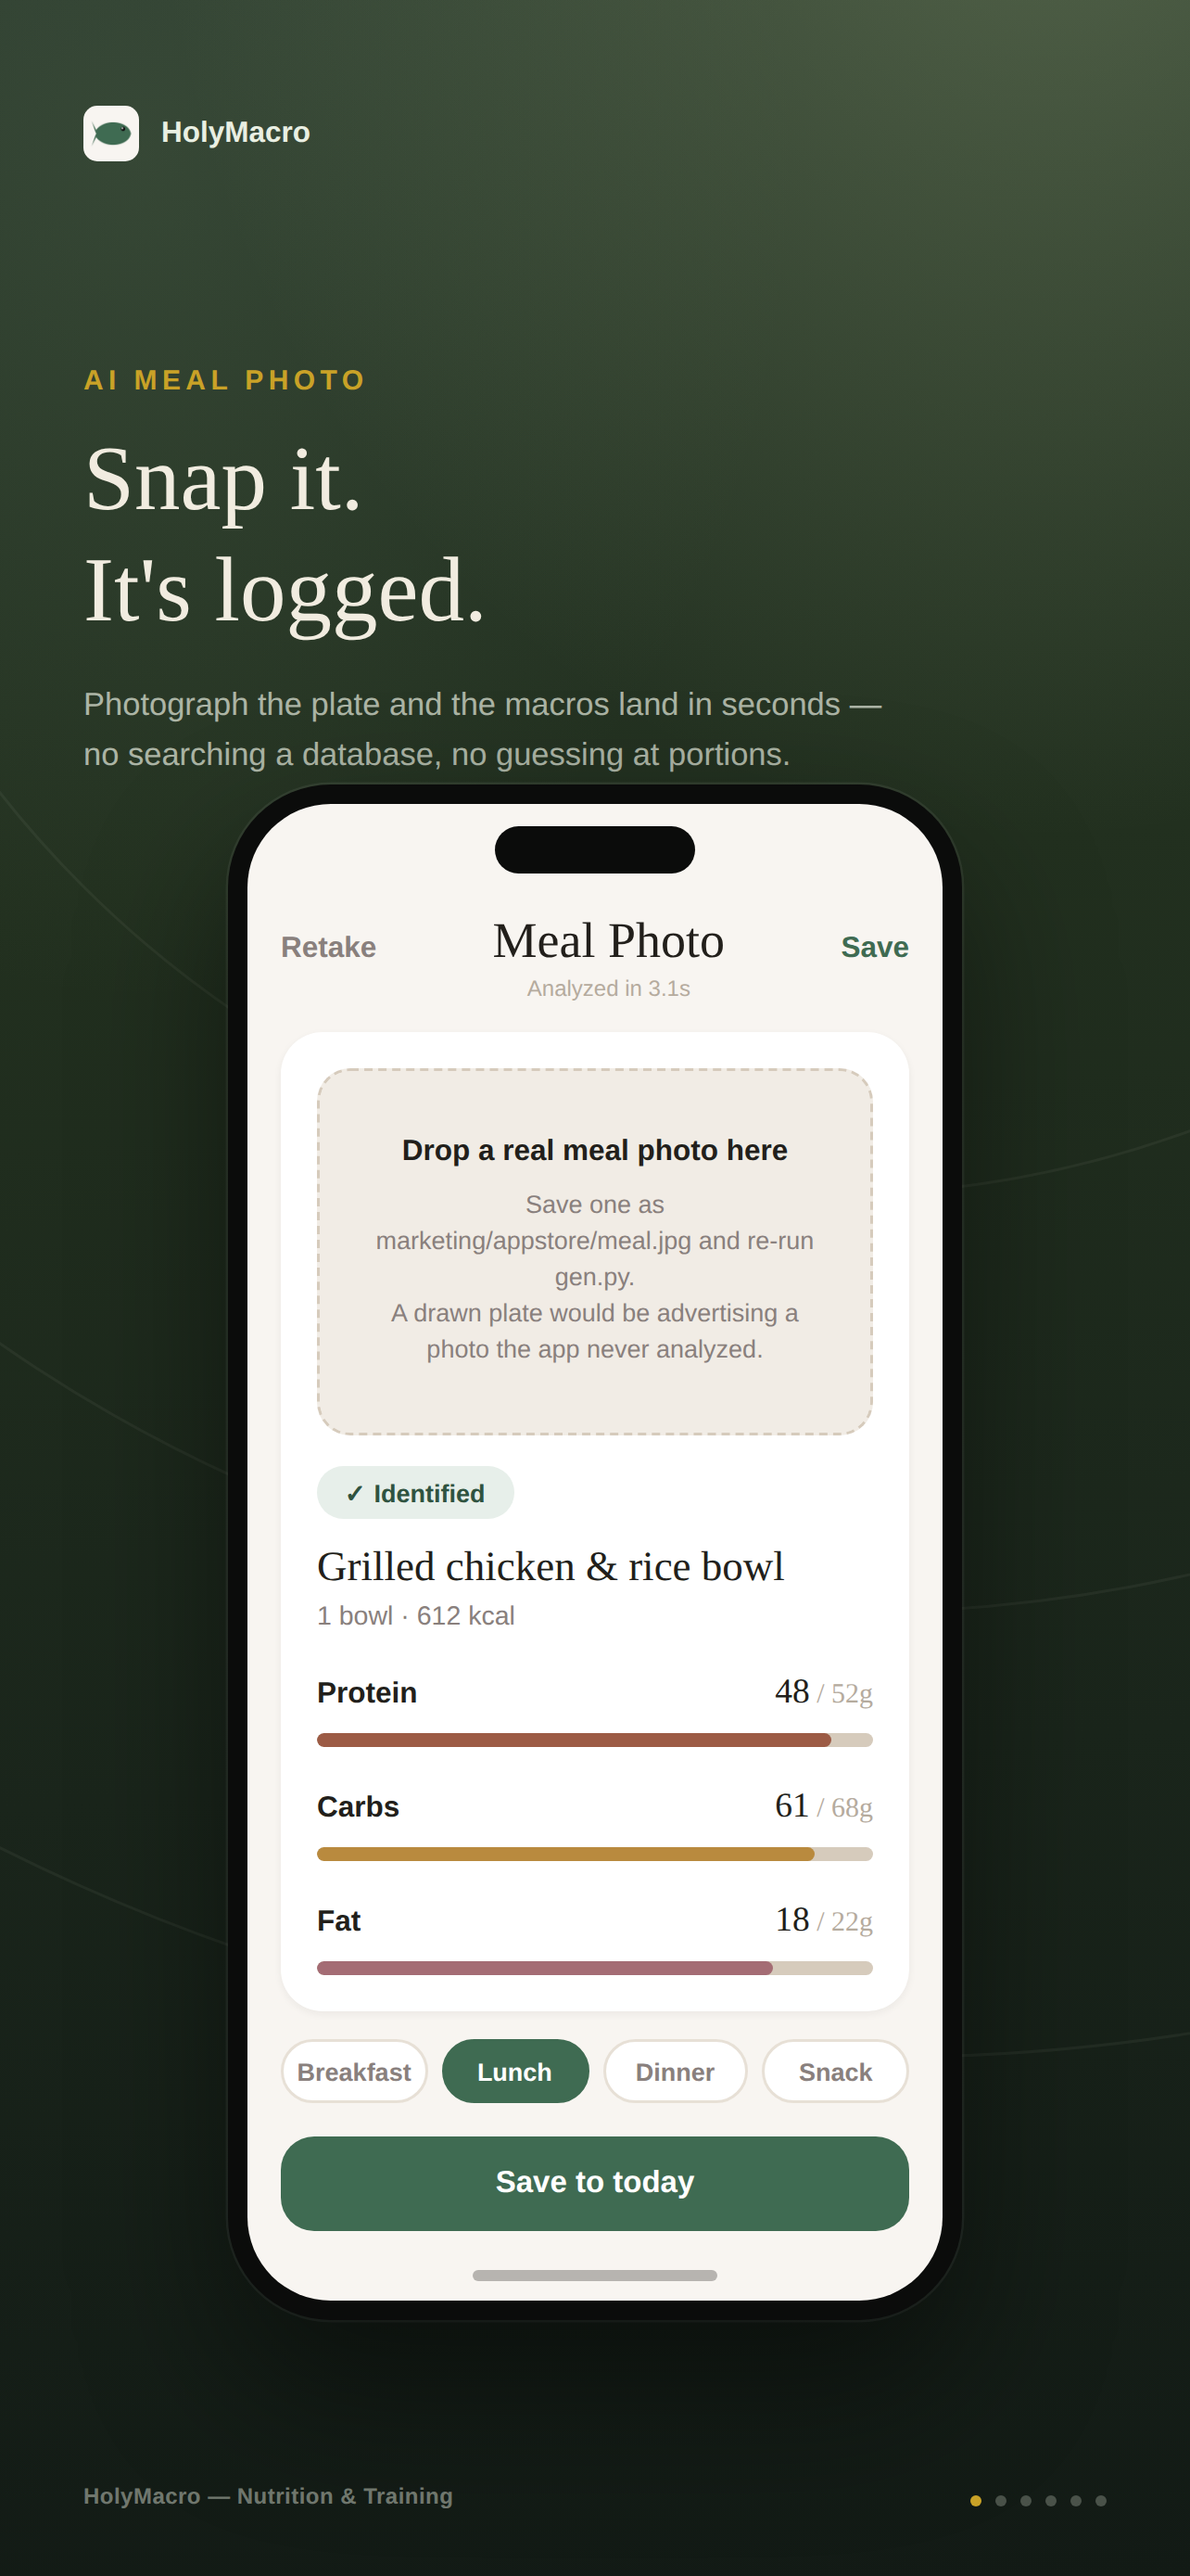
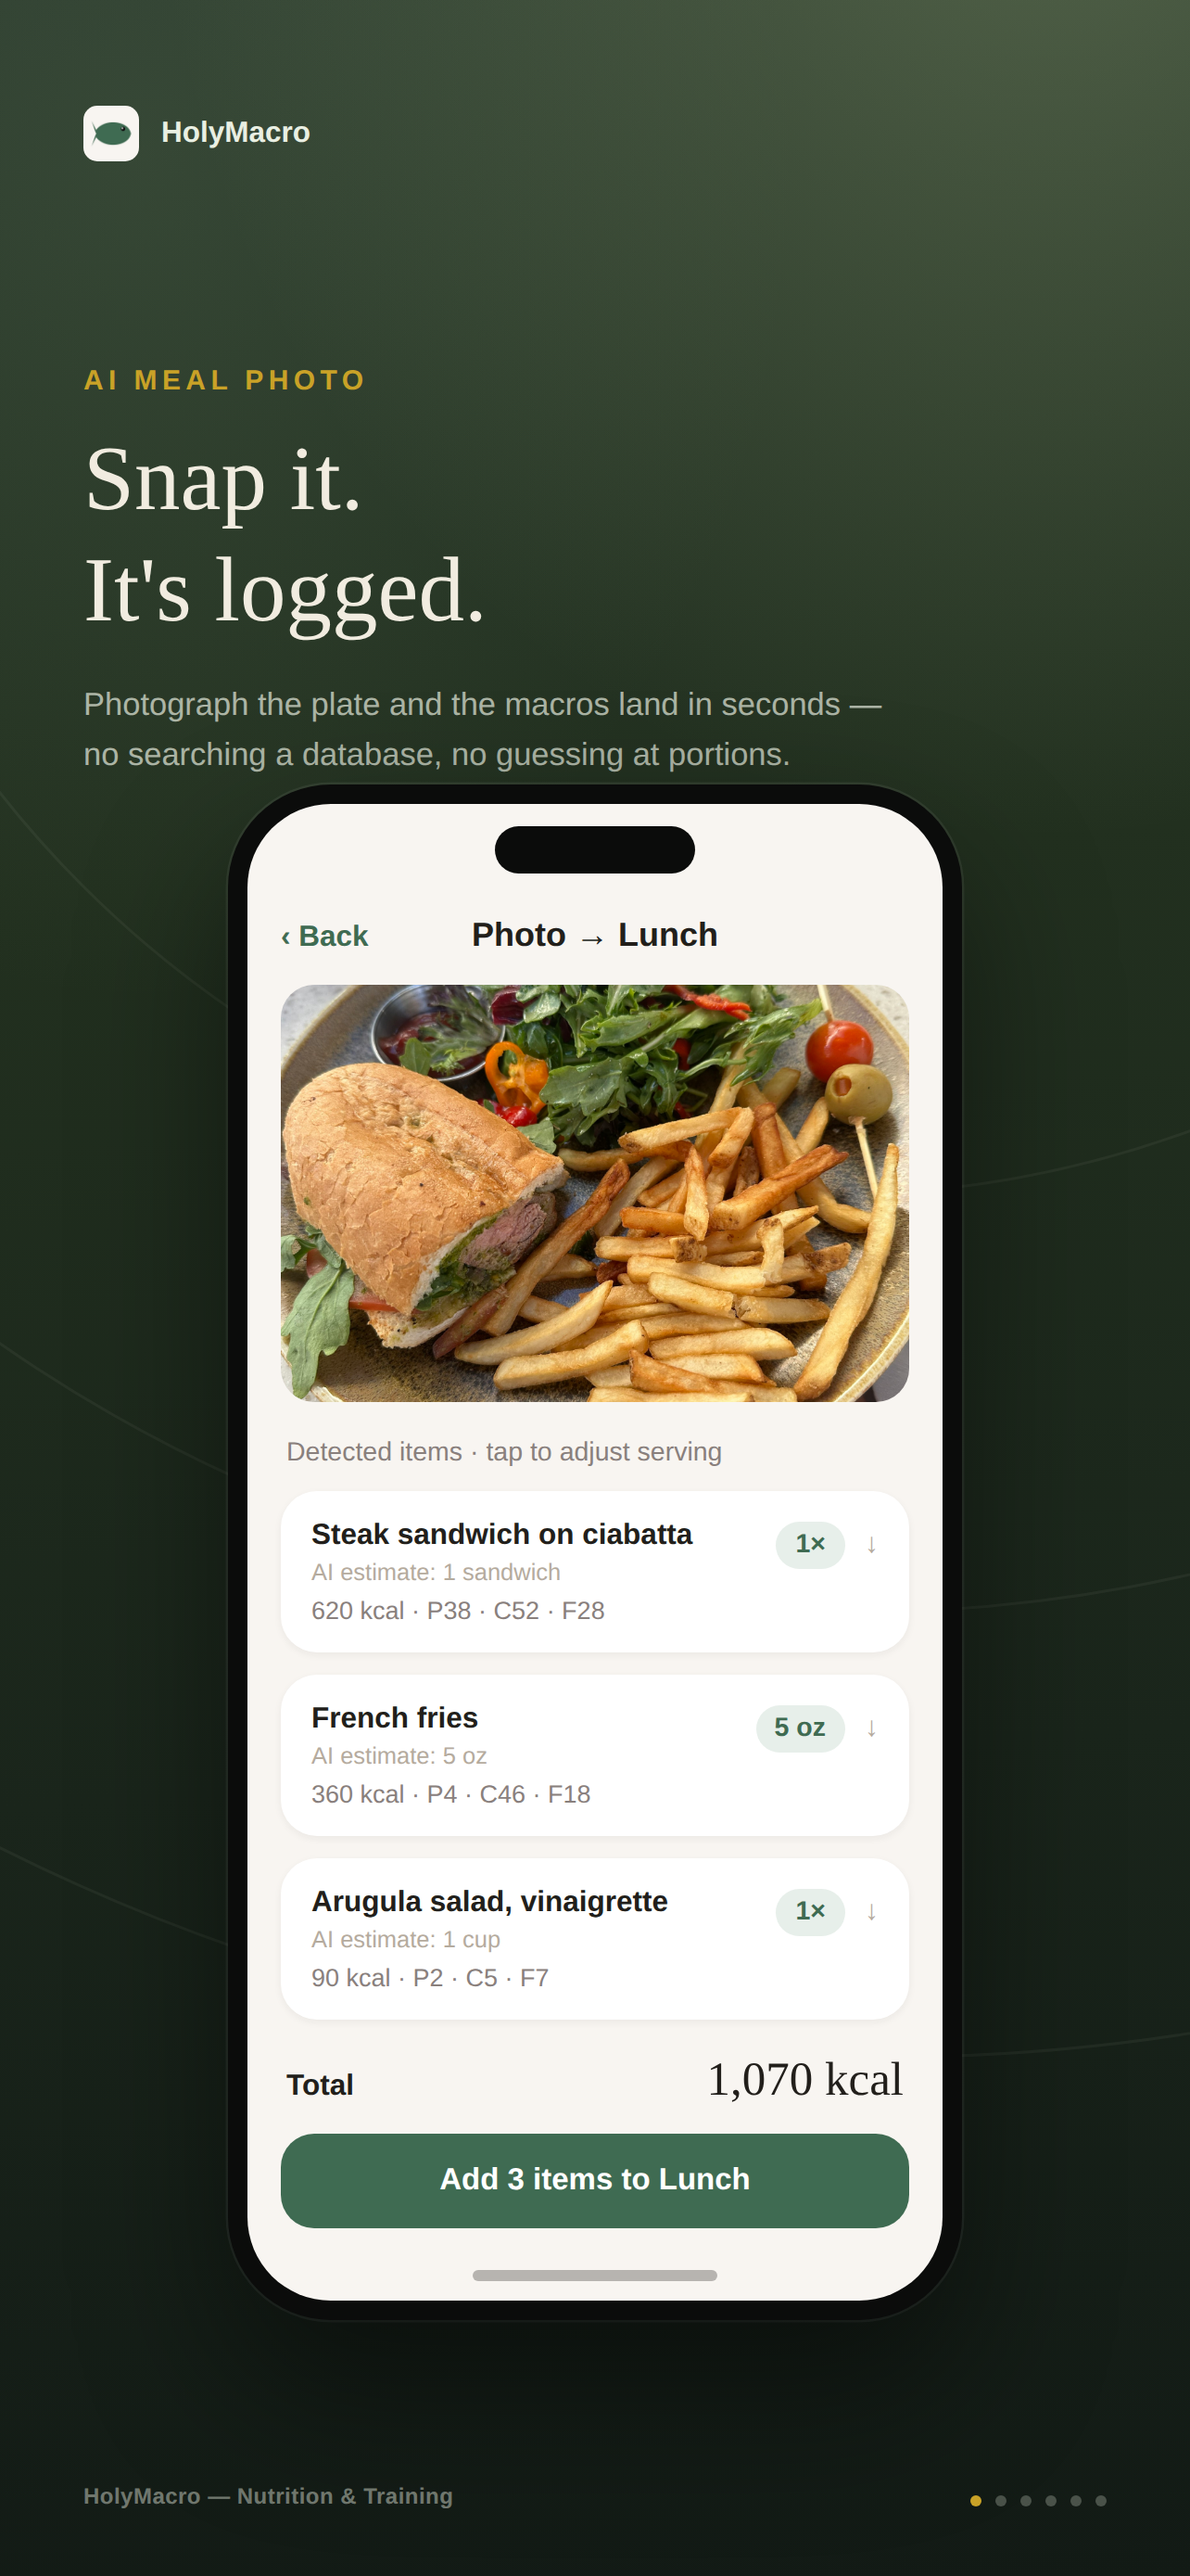
Use a real photograph on the meal slide, and draw the real screen
The mock beside the photo was invented: it showed macro bars, meal-type pills
and a "Save to today" button. MealPhotoScreen renders none of those. It is a
"‹ Back / Photo → Lunch" header, the preview, "Detected items · tap to adjust
serving", one card per item carrying the AI's serving estimate and a
kcal/P/C/F line, then a Total row and "Add N items to Lunch". That is what
slide 1 shows now, with items matching what is actually on the plate.

The photo itself stays out of git. The repository is public and a phone frame
catches more than the plate — the neighbouring table, whoever is holding it.
The committed PNGs carry only the cropped band; gen.py reads the original from
disk, so a fresh clone renders the placeholder rather than a stale plate.

Claude-Session: https://claude.ai/code/session_01G1DZr8XqKT6mEYjTtyiqnR

Changed region(s): [[0.2181, 0.3405, 0.7788, 0.8668], [0.2492, 0.8049, 0.3427, 0.8359]]

diff --git a/MacroTracker/marketing/appstore/gen.py b/MacroTracker/marketing/appstore/gen.py
@@ -228,21 +228,32 @@ h1{{font-family:'DM Serif Display',serif;font-weight:400;font-size:33px;line-hei
 .nl-fine{{font-size:6px;line-height:1.35;border-top:4px solid #000;padding-top:3px;margin-top:2px}}
 
 /* meal photo — src/screens/MealPhotoScreen.tsx */
-.shot{{height:132px;border-radius:12px;overflow:hidden;background:{CARD_MUTED}}}
-.shot img{{width:100%;height:100%;object-fit:cover;display:block}}
-.slot{{height:132px;border-radius:12px;border:1.5px dashed {BORDER_STRONG};
+.mphdr{{display:flex;align-items:baseline;justify-content:space-between;margin-bottom:11px}}
+.mphdr a{{font-size:10.5px;font-weight:700;color:{PRIMARY};text-decoration:none;width:44px}}
+.mphdr b{{font-size:12px;font-weight:800;color:{TEXT}}}
+.mphdr i{{width:44px}}
+.shot{{height:150px;border-radius:12px;overflow:hidden;background:{CARD_MUTED}}}
+.shot img{{width:100%;height:100%;object-fit:cover;object-position:center 50%;display:block}}
+.slot{{height:150px;border-radius:12px;border:1.5px dashed {BORDER_STRONG};
  background:{CARD_MUTED};display:flex;flex-direction:column;align-items:center;
  justify-content:center;gap:7px;color:{MUTED};text-align:center;padding:0 18px}}
 .slot b{{font-size:10.5px;font-weight:800;color:{TEXT}}}
 .slot s{{text-decoration:none;font-size:9px;line-height:1.45}}
-.chip{{display:inline-flex;align-items:center;gap:5px;background:{PRIMARY_SOFT};
- color:{PRIMARY_DARK};border-radius:99px;padding:4.5px 10px;font-size:9px;font-weight:800}}
-.mealname{{font-family:'DM Serif Display',serif;font-size:15px;color:{TEXT};margin-top:10px}}
-.mealkcal{{font-size:9.5px;color:{MUTED};margin-top:3px;margin-bottom:12px}}
-.pills{{display:flex;gap:5px;margin-bottom:12px}}
-.pills span{{flex:1;text-align:center;font-size:9px;font-weight:700;color:{MUTED};
- background:{CARD};border:1px solid {BORDER};border-radius:99px;padding:5.5px 0}}
-.pills span.on{{background:{PRIMARY};border-color:{PRIMARY};color:#fff}}
+.detected{{font-size:9.5px;color:{MUTED};margin:13px 2px 8px}}
+.itemcard{{background:{CARD};border-radius:13px;padding:10px 11px;margin-bottom:8px;
+ display:flex;align-items:flex-start;gap:8px;box-shadow:0 1px 3px rgba(34,31,27,.06)}}
+.itemleft{{flex:1;min-width:0}}
+.itemname{{font-size:10.5px;font-weight:700;color:{TEXT}}}
+.itemserving{{font-size:8.5px;color:{FAINT};margin-top:2px}}
+.itemmacros{{font-size:9px;color:{MUTED};margin-top:4px;font-variant-numeric:tabular-nums}}
+.itemright{{display:flex;align-items:center;gap:7px;padding-top:1px}}
+.amt{{font-size:9.5px;font-weight:700;color:{PRIMARY};background:{PRIMARY_SOFT};
+ padding:3px 7px;border-radius:99px}}
+.chev{{font-size:10px;color:{FAINT}}}
+.totalrow{{display:flex;align-items:baseline;justify-content:space-between;
+ margin:12px 2px 9px}}
+.totallabel{{font-size:10.5px;font-weight:800;color:{TEXT}}}
+.totalvalue{{font-family:'DM Serif Display',serif;font-size:17px;color:{TEXT}}}
 .cta{{background:{PRIMARY};color:#fff;text-align:center;font-size:11px;font-weight:800;
  padding:11px 0;border-radius:12px}}
 """
@@ -301,19 +312,28 @@ else:
             '<s>Save one as marketing/appstore/meal.jpg and re-run gen.py.<br>'
             'A drawn plate would be advertising a photo the app never analyzed.</s></div>')
 
+ITEMS = [
+    ("Steak sandwich on ciabatta", "1 sandwich", 620, 38, 52, 28, "1\u00d7"),
+    ("French fries", "5 oz", 360, 4, 46, 18, "5 oz"),
+    ("Arugula salad, vinaigrette", "1 cup", 90, 2, 5, 7, "1\u00d7"),
+]
+items = "".join(
+    f'<div class="itemcard"><div class="itemleft">'
+    f'<div class="itemname">{n}</div>'
+    f'<div class="itemserving">AI estimate: {serv}</div>'
+    f'<div class="itemmacros">{kc} kcal &middot; P{pr} &middot; C{cb} &middot; F{ft}</div></div>'
+    f'<div class="itemright"><span class="amt">{amt}</span><span class="chev">&darr;</span></div>'
+    f'</div>'
+    for n, serv, kc, pr, cb, ft, amt in ITEMS)
+
 s1 = f"""<div class="body">
-<div class="navbar"><a class="q">Retake</a><div class="mid"><div class="t">Meal Photo</div>
-<div class="st">Analyzed in 3.1s</div></div><a>Save</a></div>
-<div class="card">{shot}
-<div style="margin-top:11px"><span class="chip">&#10003; Identified</span></div>
-<div class="mealname">Grilled chicken &amp; rice bowl</div>
-<div class="mealkcal">1 bowl &middot; 612 kcal</div>
-{bar("Protein", 48, 52, PROTEIN)}
-{bar("Carbs", 61, 68, CARBS)}
-{bar("Fat", 18, 22, FAT)}
-</div>
-<div class="pills"><span>Breakfast</span><span class="on">Lunch</span><span>Dinner</span><span>Snack</span></div>
-<div class="cta">Save to today</div>
+<div class="mphdr"><a>&lsaquo; Back</a><b>Photo &rarr; Lunch</b><i></i></div>
+{shot}
+<div class="detected">Detected items &middot; tap to adjust serving</div>
+{items}
+<div class="totalrow"><span class="totallabel">Total</span>
+<span class="totalvalue">1,070 kcal</span></div>
+<div class="cta">Add 3 items to Lunch</div>
 </div>"""
 
 # ---------------------------------------------------------------- slide 2

diff --git a/MacroTracker/marketing/app-store-listing.md b/MacroTracker/marketing/app-store-listing.md
@@ -145,7 +145,7 @@ matters: App Store search results only show the first three.
 
 | # | Kicker | Headline | Shows |
 |---|--------|----------|-------|
-| 1 | AI meal photo | Snap it. / It's logged. | Meal Photo result → macro bars |
+| 1 | AI meal photo | Snap it. / It's logged. | Meal Photo: detected items → total |
 | 2 | Smart camera | Read the label. / Know the truth. | Nutrition Facts capture |
 | 3 | Nutrition | Every macro, / one glance. | Home: calorie ring, macro bars, water |
 | 4 | Adaptive goals | Targets that / follow your weight. | Goals-updated card, weight trend |
@@ -154,14 +154,25 @@ matters: App Store search results only show the first three.
 
 ### Slide 1 needs a real photograph
 
-`gen.py` embeds `marketing/appstore/meal.jpg` (`.jpeg`/`.png` also work) into
-the Meal Photo card. Until that file exists the slot renders as a visible
-placeholder, which is deliberate — the slide advertises photo recognition, so
-a drawn plate would be showing a photo the app never analysed. Shoot one meal
-through the app, export it, drop it in, re-run.
+`gen.py` embeds `marketing/appstore/meal.jpg` (`.jpeg`/`.png` also work) as the
+photo on the Meal Photo screen. Until that file exists the slot renders as a
+visible placeholder, which is deliberate: the slide advertises photo
+recognition, so a drawn plate would be showing a photo the app never analysed.
 
-Anything roughly 3:2 and landscape works; it is cropped with `object-fit:
-cover` into a 132 × 224 CSS slot.
+**The file is gitignored on purpose.** This repository is public, and the
+frame a phone captures holds more than the plate — the table, the next diner's
+lunch, whoever is holding it. The committed PNGs carry only the crop; the
+original stays local. Which means a fresh clone renders the placeholder until
+someone supplies a photo, and that is the intended failure mode.
+
+Any orientation works. It is cropped with `object-fit: cover` into a
+150 × 224 CSS slot, so a portrait phone photo keeps a horizontal band through
+its middle — adjust `object-position` in `.shot img` if the plate sits high or
+low in the frame.
+
+The item rows beside it have to match whatever is in the photo. They are the
+`ITEMS` list in `gen.py`: name, the AI's serving estimate, and the macros,
+laid out the way `MealPhotoScreen` renders them.
 
 ### Regenerating them
 
